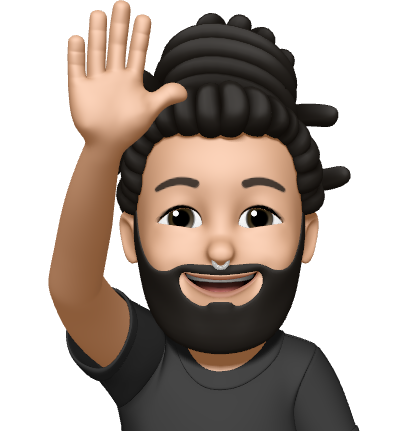
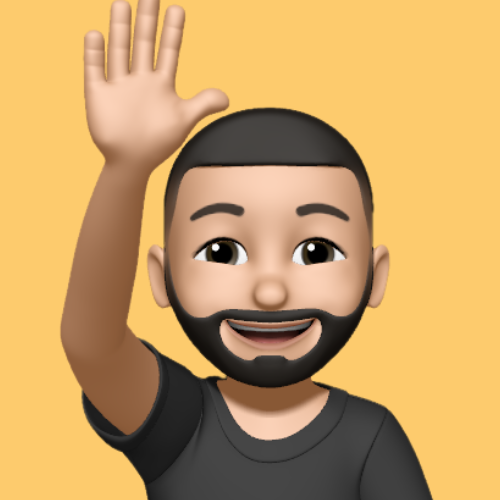
updated profile pics

diff --git a/portfoliox/src/components/About.tsx b/portfoliox/src/components/About.tsx
@@ -67,7 +67,7 @@ export function About() {
           <div className="flex justify start gap-1">
             <div className="">
               <img
-                src="/memoji.PNG"
+                src="/memoji4.PNG"
                 alt="my memoji"
                 className={`rounded-full h-14 w-14  object-cover bg-white  m-4 `}
               />
@@ -99,24 +99,23 @@ export function About() {
               {" "}
               <p className="pt-4 pb-6">
                 Hey there! I'm Daniel, a web developer driven by a lifelong
-                fascination with technology. From my childhood days playing games on
-                our household computer to my recent curiosity in AI and coding,
-                technology has always captivated me.
+                fascination with technology. From my childhood days playing
+                games on our household computer to my recent curiosity in AI and
+                coding, technology has always captivated me.
                 <br />
                 <br />
-                After completing an intensive full stack web development
-                program at LearningFuze coding bootcamp, I uncovered my true
-                passion for coding and web design. I've always had a love for
-                creativity and expression, and I found a new outlet for it
-                through code.
+                After completing an intensive full stack web development program
+                at LearningFuze coding bootcamp, I uncovered my true passion for
+                coding and web design. I've always had a love for creativity and
+                expression, and I found a new outlet for it through code.
                 <br />
                 <br />
                 Now, as a web developer, I'm eager to continue learning and
                 growing in this dynamic field. I'm actively seeking new avenues
-                for collaboration and growth within the software and web development
-                sphere. If you have any exciting projects or opportunities on
-                the horizon, I'd love to chat and see how we can potentially
-                work together!
+                for collaboration and growth within the software and web
+                development sphere. If you have any exciting projects or
+                opportunities on the horizon, I'd love to chat and see how we
+                can potentially work together!
               </p>
               <div
                 className={`flex overflow-hidden rounded-2xl  ${
@@ -163,24 +162,28 @@ export function About() {
                           }}
                         />
                         <button
-                          className={`fixed top-1/2 left-4 py-1 px-3 z-50 text-white text-4xl ${darkMode ? "bg-[#858585]":"bg-white"} bg-opacity-10 hover:bg-opacity-25 rounded-full duration-150`}
+                          className={`fixed top-1/2 left-4 py-1 px-3 z-50 text-white text-4xl ${
+                            darkMode ? "bg-[#858585]" : "bg-white"
+                          } bg-opacity-10 hover:bg-opacity-25 rounded-full duration-150`}
                           onClick={(e) => {
                             e.stopPropagation();
                             prevImage();
                           }}
                           style={{ transform: "translateY(-50%)", zIndex: 50 }}
                         >
-                          <FaLongArrowAltLeft className="hover:scale-105 duration-150 ease-in-out"/>
+                          <FaLongArrowAltLeft className="hover:scale-105 duration-150 ease-in-out" />
                         </button>
                         <button
-                          className={`fixed top-1/2 right-4 py-1 px-3 z-50 text-white text-4xl ${darkMode ? "bg-[#858585]":"bg-white"} bg-opacity-10 hover:bg-opacity-25 rounded-full duration-150`}
+                          className={`fixed top-1/2 right-4 py-1 px-3 z-50 text-white text-4xl ${
+                            darkMode ? "bg-[#858585]" : "bg-white"
+                          } bg-opacity-10 hover:bg-opacity-25 rounded-full duration-150`}
                           onClick={(e) => {
                             e.stopPropagation();
                             nextImage();
                           }}
                           style={{ transform: "translateY(-50%)", zIndex: 50 }}
                         >
-                          <FaLongArrowAltRight className="hover:scale-105 duration-150 ease-in-out"/>
+                          <FaLongArrowAltRight className="hover:scale-105 duration-150 ease-in-out" />
                         </button>
                       </div>
                     </div>

diff --git a/portfoliox/src/data/data.ts b/portfoliox/src/data/data.ts
@@ -16,7 +16,7 @@ import {
 export const experiences: Experiences[] = [
   {
     id: 1,
-    pfp: "./memoji.PNG",
+    pfp: "./memoji4.PNG",
     name: "Daniel Perez",
     username: "dxnieldev",
     date: "March 2024 - Present",
@@ -33,7 +33,7 @@ export const experiences: Experiences[] = [
   },
   {
     id: 2,
-    pfp: "./memoji.PNG",
+    pfp: "./memoji4.PNG",
     name: "Daniel Perez",
     username: "dxnieldev",
     date: "February 2024 - Present",
@@ -57,7 +57,7 @@ export const projects: Project[] = [
     name: "Daniel Perez",
     username: "dxnieldev",
     date: "February 12, 2024",
-    pfp: "/memoji.PNG",
+    pfp: "/memoji4.PNG",
     images: [
       "/portfolio-1.png",
       "/portfolio-2.png",
@@ -80,7 +80,7 @@ export const projects: Project[] = [
     name: "Daniel Perez",
     username: "dxnieldev",
     date: "January 17, 2024",
-    pfp: "/memoji.PNG",
+    pfp: "/memoji4.PNG",
     images: [
       "/chatgptstyler-1.png",
       "/chatgptstyler-3.png",
@@ -104,7 +104,7 @@ export const projects: Project[] = [
     name: "Daniel Perez",
     username: "dxnieldev",
     date: "January 12, 2024",
-    pfp: "/memoji.PNG",
+    pfp: "/memoji4.PNG",
     images: [
       "/ghibli-wiki-1.png",
       "/ghibli-wiki-2.png",
@@ -128,7 +128,7 @@ export const projects: Project[] = [
     name: "Daniel Perez",
     username: "dxnieldev",
     date: "November 22, 2023",
-    pfp: "/memoji.PNG",
+    pfp: "/memoji4.PNG",
     images: [
       "/spin-trade-1.png",
       "/spin-trade-2.png",

diff --git a/portfoliox/src/pages/LandingPage.tsx b/portfoliox/src/pages/LandingPage.tsx
@@ -50,7 +50,7 @@ export default function LandingPage() {
             </div>
 
             <div className="absolute bottom-[-4rem] sm:left-0 left-0 md:left-[2rem] z-10">
-              <ProfilePic src="/memoji.PNG" alt="my memoji" />
+              <ProfilePic src="/memoji4.PNG" alt="my memoji" />
             </div>
           </div>
           <div className="max-w-[750px] w-full">

diff --git a/portfoliox/src/components/Tech.tsx b/portfoliox/src/components/Tech.tsx
@@ -42,7 +42,7 @@ export function Tech() {
           <div className="flex justify start gap-1">
             <div className="">
               <img
-                src="/memoji.PNG"
+                src="/memoji4.PNG"
                 alt="my memoji"
                 className={`rounded-full h-14 w-14  object-cover bg-white  m-4 `}
               />
